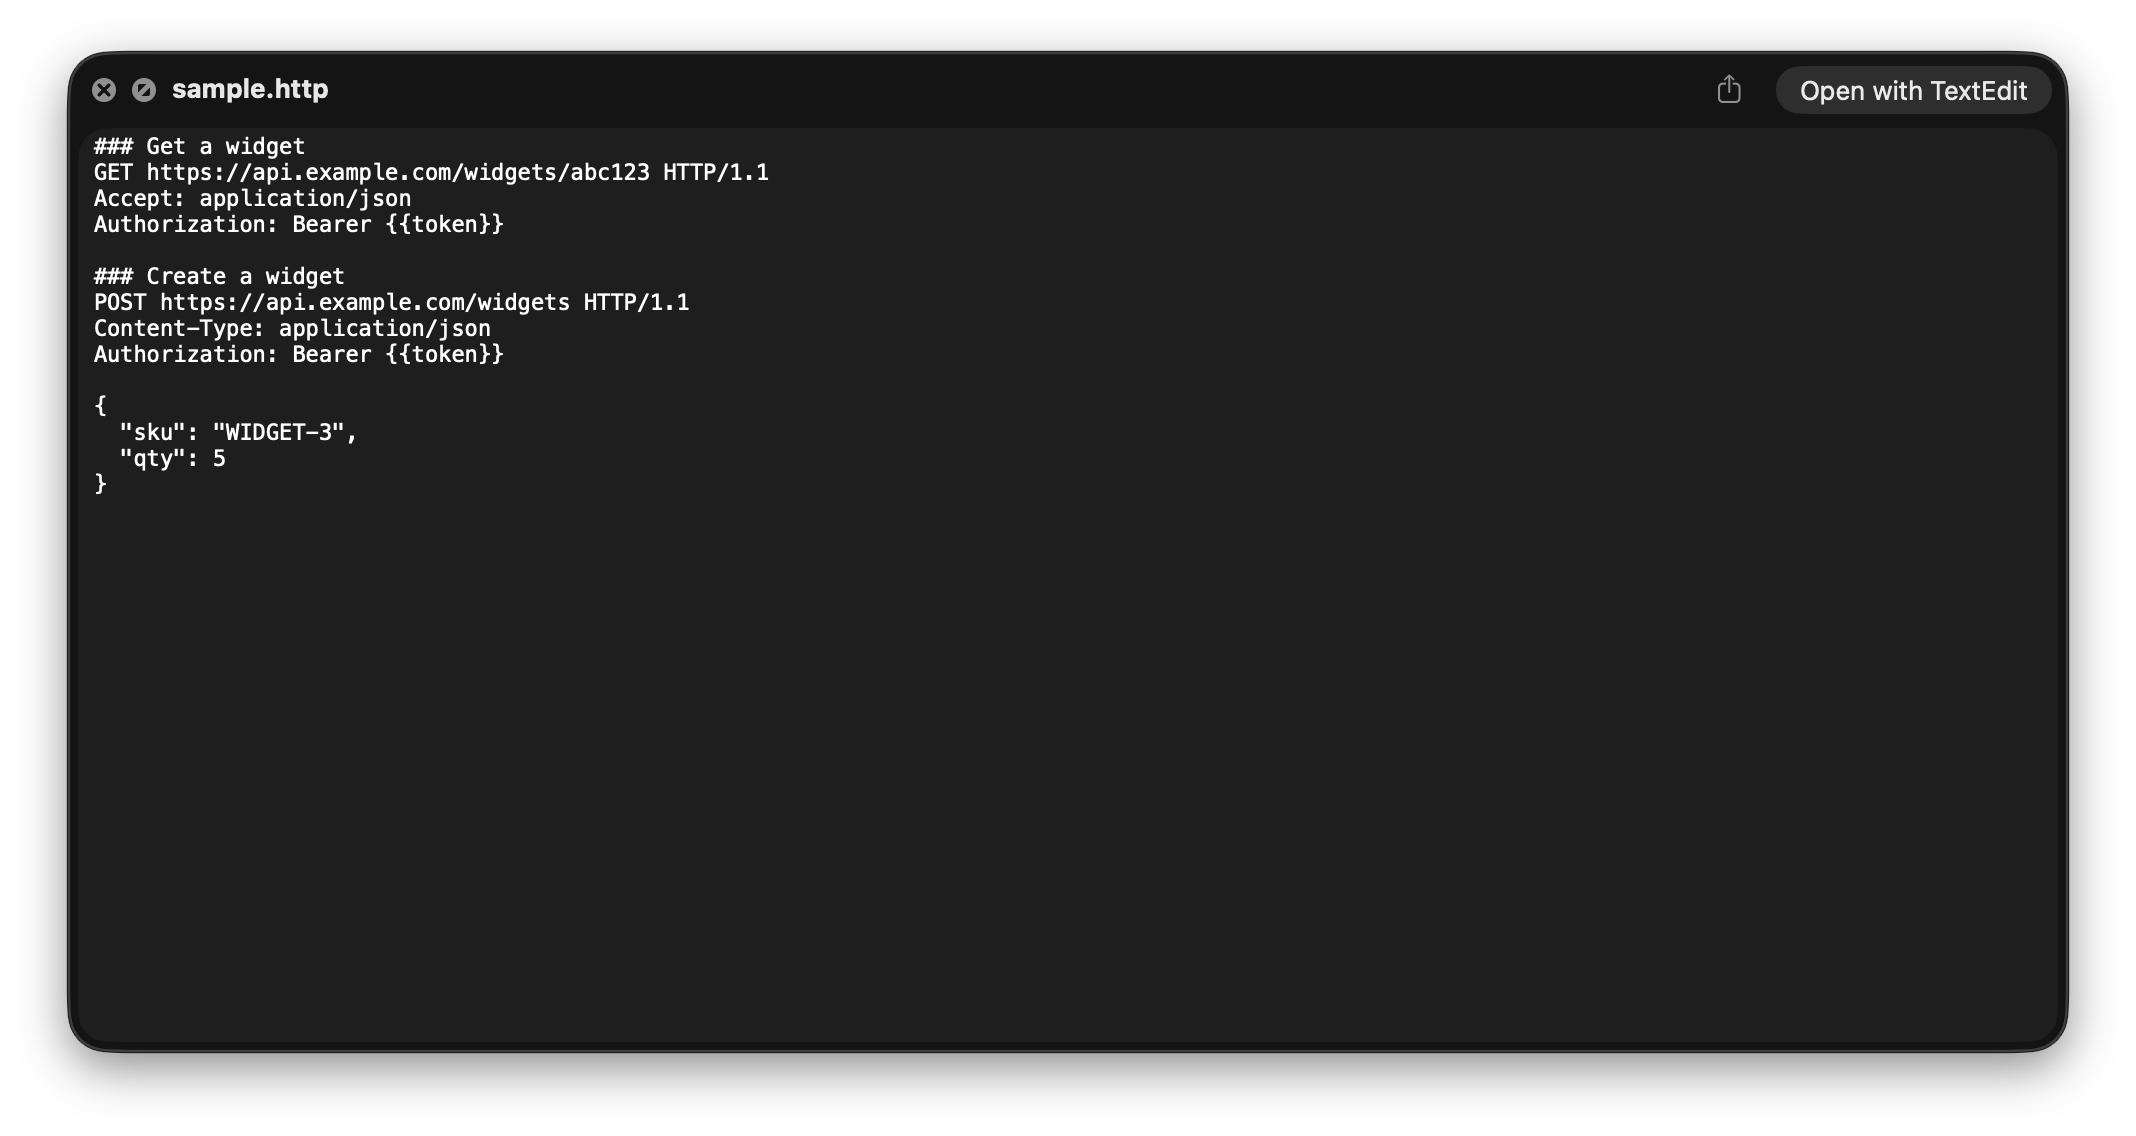
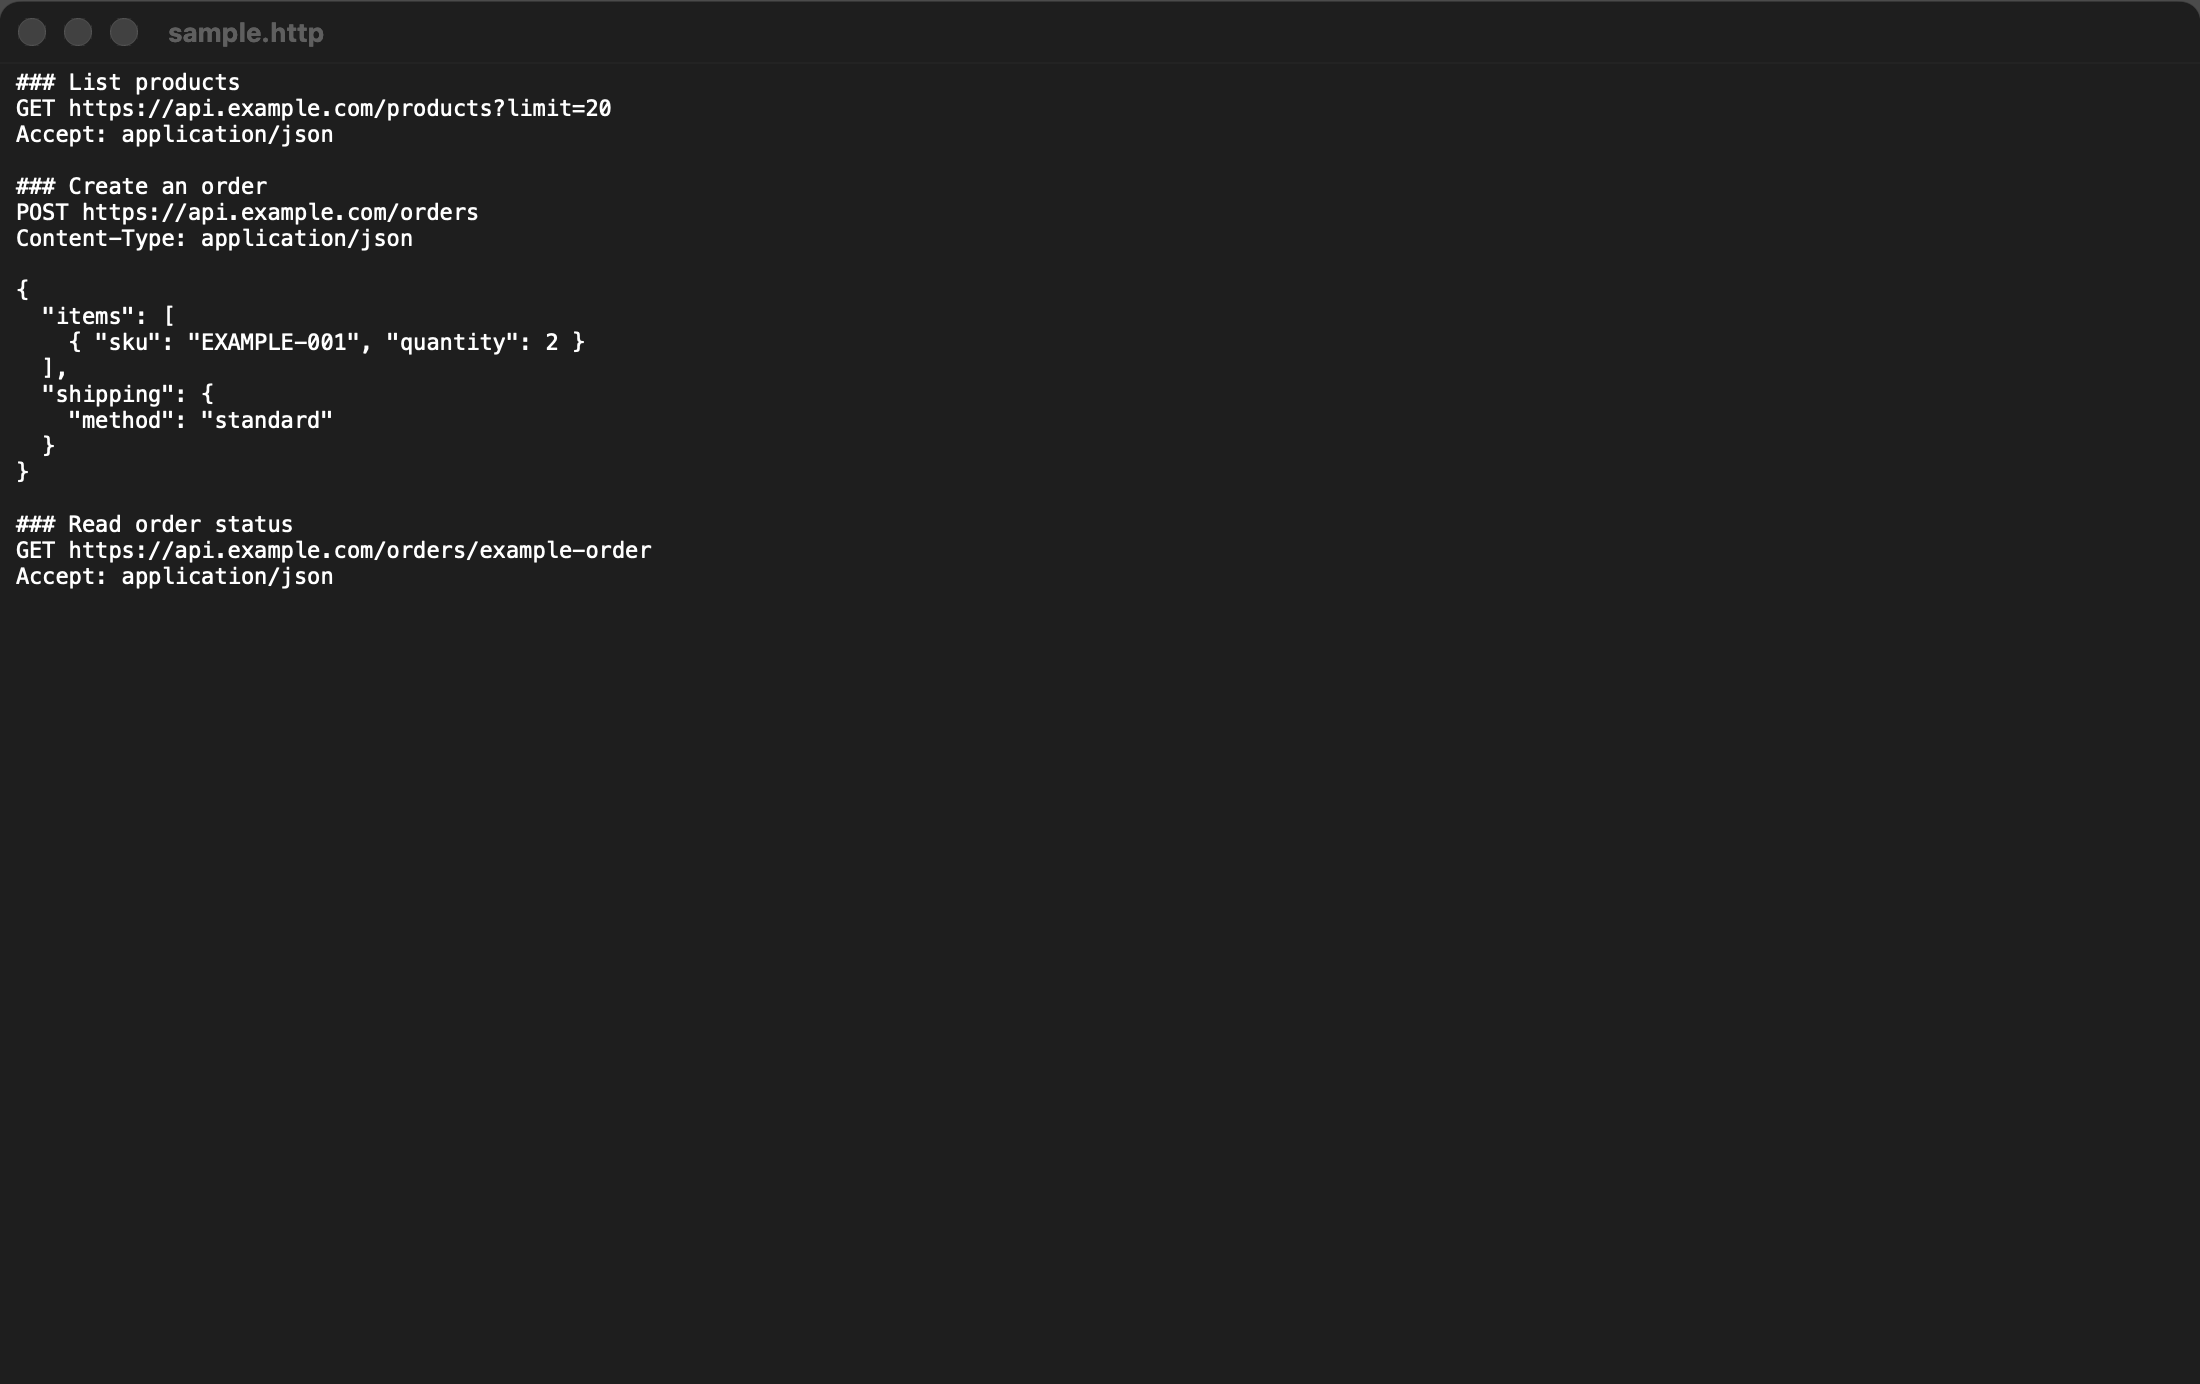
build: automate project cover generation

Changed region(s): [[0.0, 0.0, 1.0, 1.0]]

diff --git a/tools/cover/Capture.swift b/tools/cover/Capture.swift
@@ -1,0 +1,41 @@
+import AppKit
+import Quartz
+
+@main
+struct CoverCapture {
+    static func main() throws {
+        let arguments = CommandLine.arguments
+        guard arguments.count == 4 else { exit(2) }
+        let source = URL(fileURLWithPath: arguments[1])
+        let rendered = try PreviewRenderer.render(fileAt: source)
+        guard let text = String(data: rendered, encoding: .utf8), text.contains("GET https://api.example.com/") else {
+            throw CocoaError(.fileReadCorruptFile)
+        }
+        let temporaryPreview = URL(fileURLWithPath: arguments[2]).appendingPathComponent("sample.txt")
+        try rendered.write(to: temporaryPreview)
+        let app = NSApplication.shared
+        app.setActivationPolicy(.accessory)
+        app.appearance = NSAppearance(named: .darkAqua)
+        let window = NSWindow(contentRect: NSRect(x: 0, y: 0, width: 1100, height: 660), styleMask: [.titled, .closable], backing: .buffered, defer: false)
+        window.title = source.lastPathComponent
+        window.appearance = NSAppearance(named: .darkAqua)
+        let preview = QLPreviewView(frame: window.contentView!.bounds, style: .normal)!
+        window.contentView = preview
+        preview.previewItem = temporaryPreview as NSURL
+        window.makeKeyAndOrderFront(nil)
+        defer { preview.close(); window.orderOut(nil) }
+        RunLoop.current.run(until: Date().addingTimeInterval(8))
+        let frame = window.contentView!.superview!
+        guard let bitmap = frame.bitmapImageRepForCachingDisplay(in: frame.bounds) else {
+            throw CocoaError(.fileWriteUnknown)
+        }
+        frame.cacheDisplay(in: frame.bounds, to: bitmap)
+        guard let png = bitmap.representation(using: .png, properties: [:]), png.count > 10_000 else {
+            throw CocoaError(.fileWriteUnknown)
+        }
+        let output = URL(fileURLWithPath: arguments[3])
+        try FileManager.default.createDirectory(at: output.deletingLastPathComponent(), withIntermediateDirectories: true)
+        try png.write(to: output)
+        print("Captured \(output.path)")
+    }
+}

diff --git a/README.md b/README.md
@@ -173,6 +173,10 @@ Two helpers under `tools/` for poking at how the system resolves a given extensi
 
 See [CONTRIBUTING.md](CONTRIBUTING.md) for how to run tests, exercise the local notarized package gate, cut or resume a guarded release, and use CI's secretless test and dry-run modes.
 
+## Project cover automation
+
+Run `make capture-cover` on macOS with Xcode command line tools to regenerate `docs/screenshots/cover.png`, or `make capture-cover ARGS="--output /tmp/qlomni-cover.png"` for a review image. The capture feeds the actual `PreviewRenderer` output into the system Quick Look view with a synthetic HTTP fixture. It does not install the app or change Quick Look registration. This exercises the renderer and native preview presentation; UTI routing still belongs to the integration tests. CI captures after `make test` and publishes a changed cover from successful main builds, skipping superseded revisions. Pull requests retain capture artifacts without publishing.
+
 ## License
 
 MIT – see [LICENSE](LICENSE).
